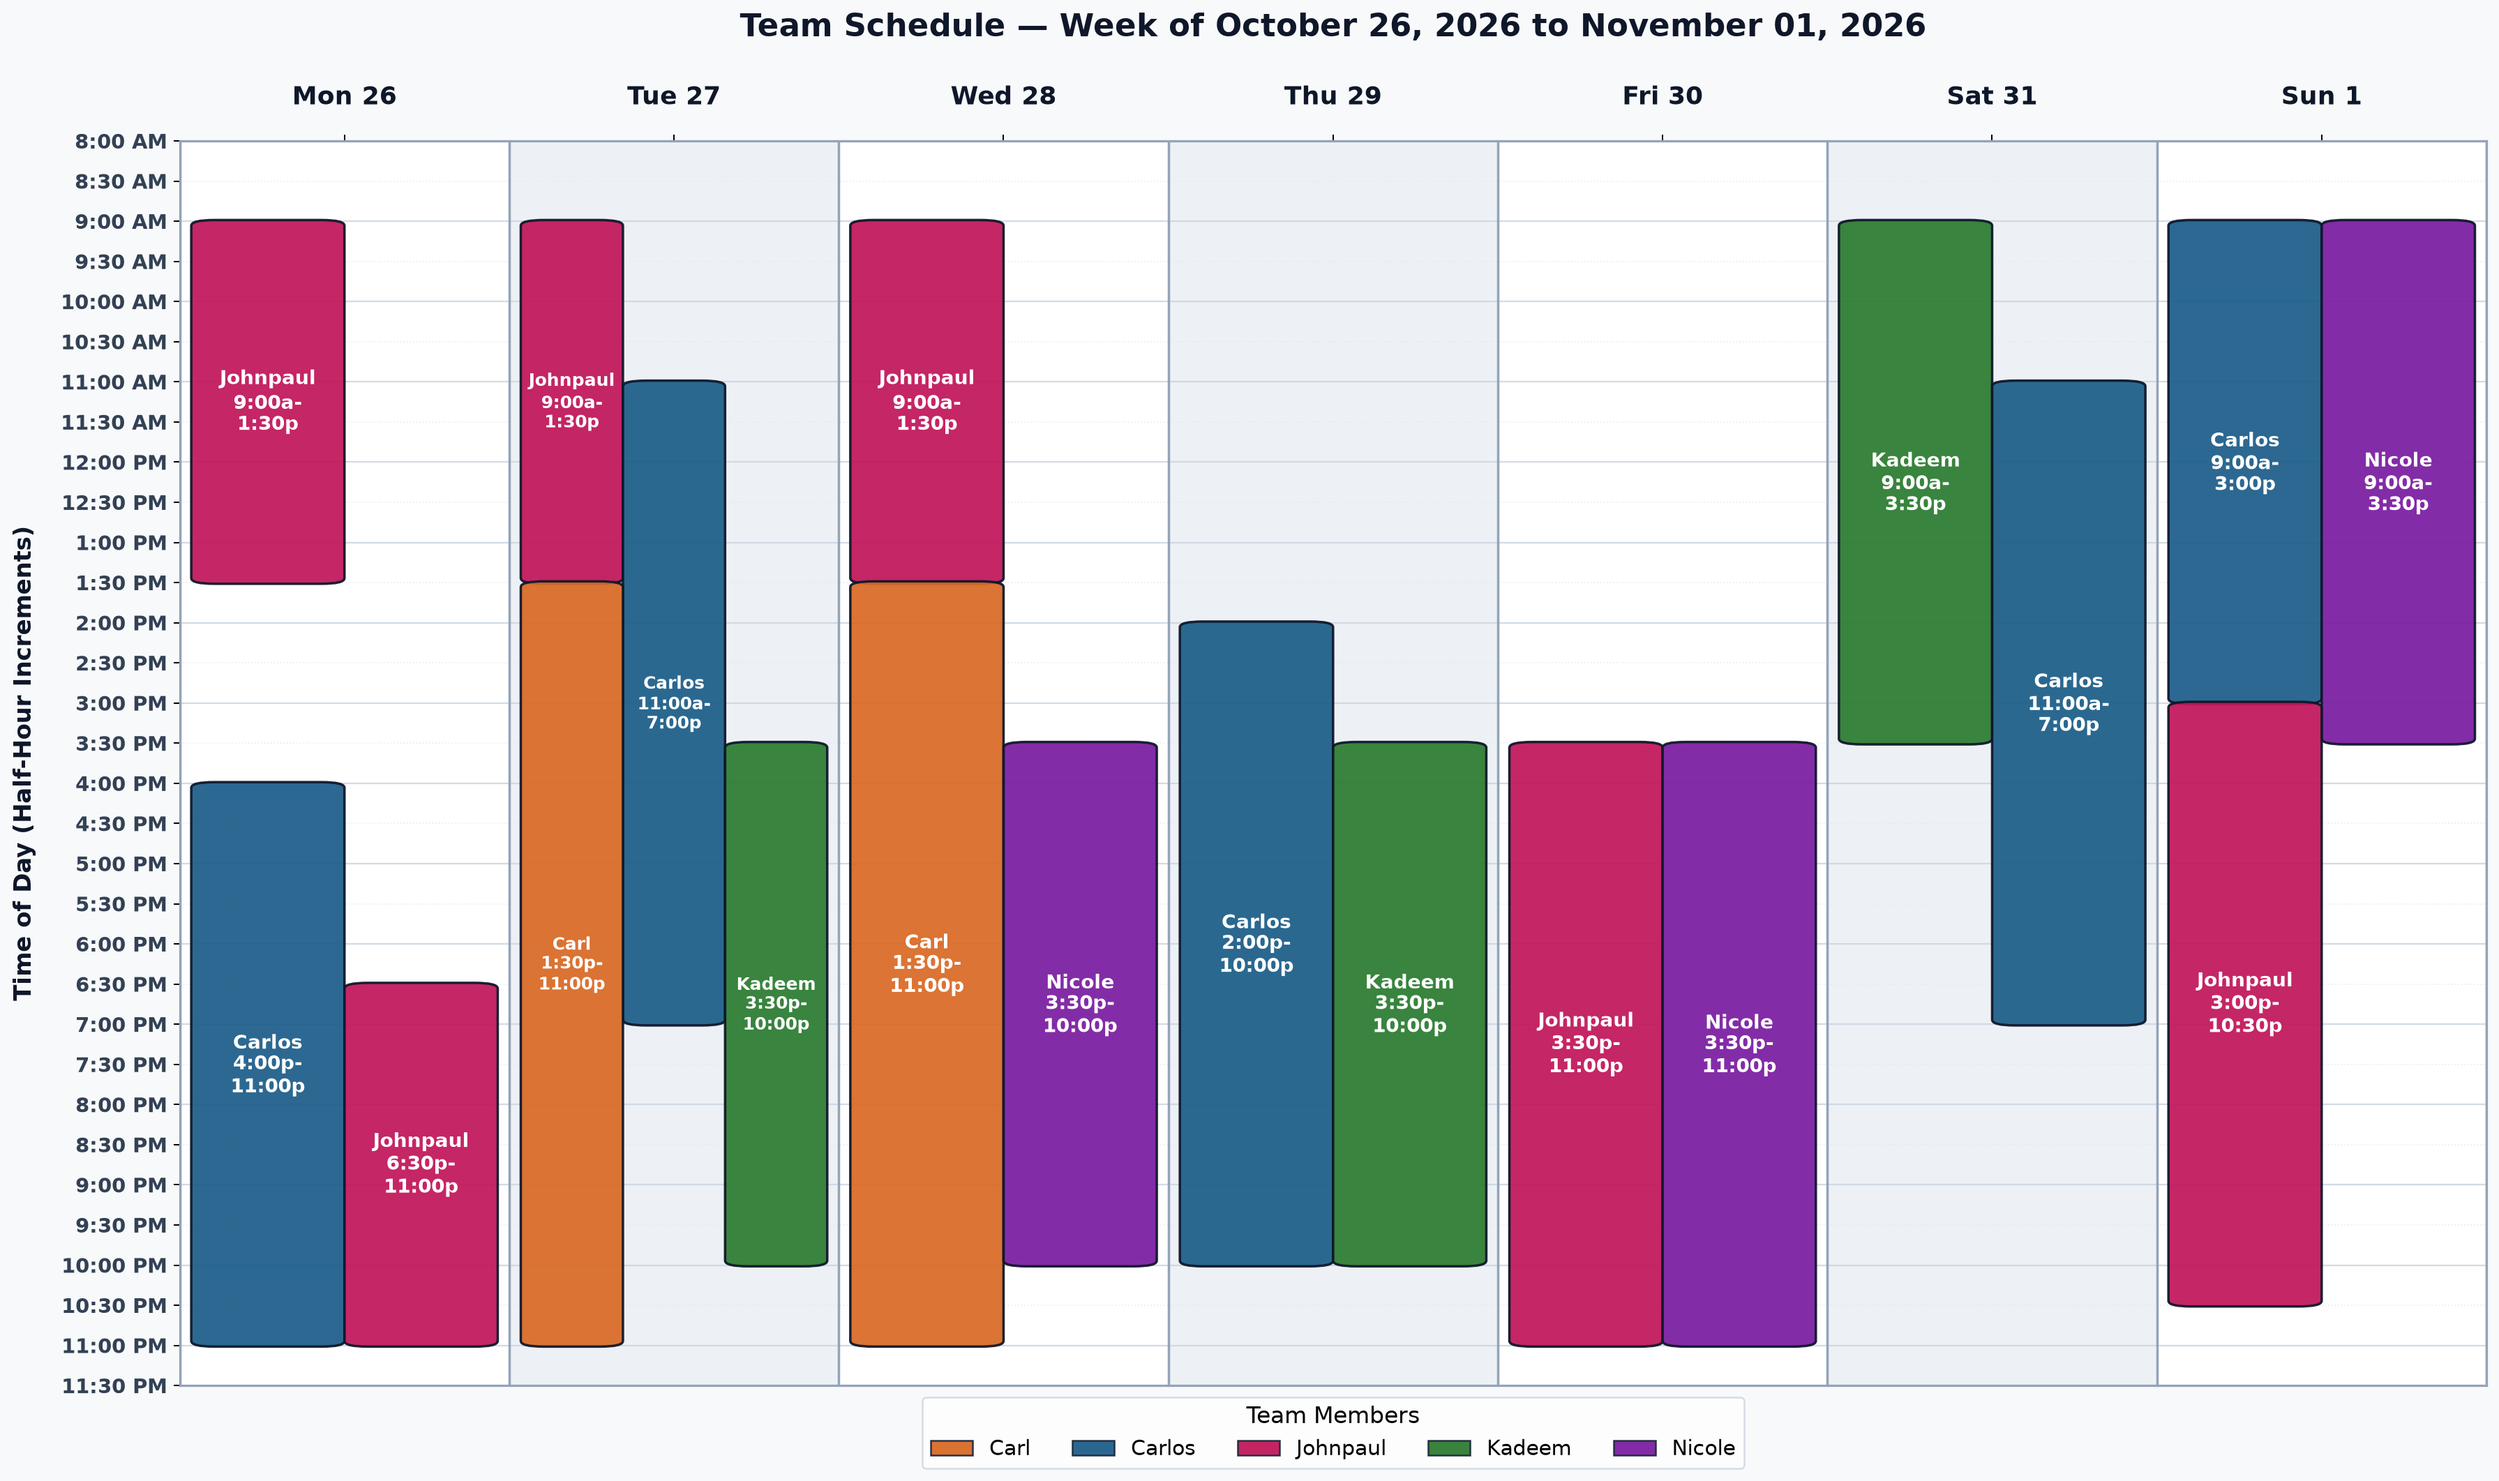
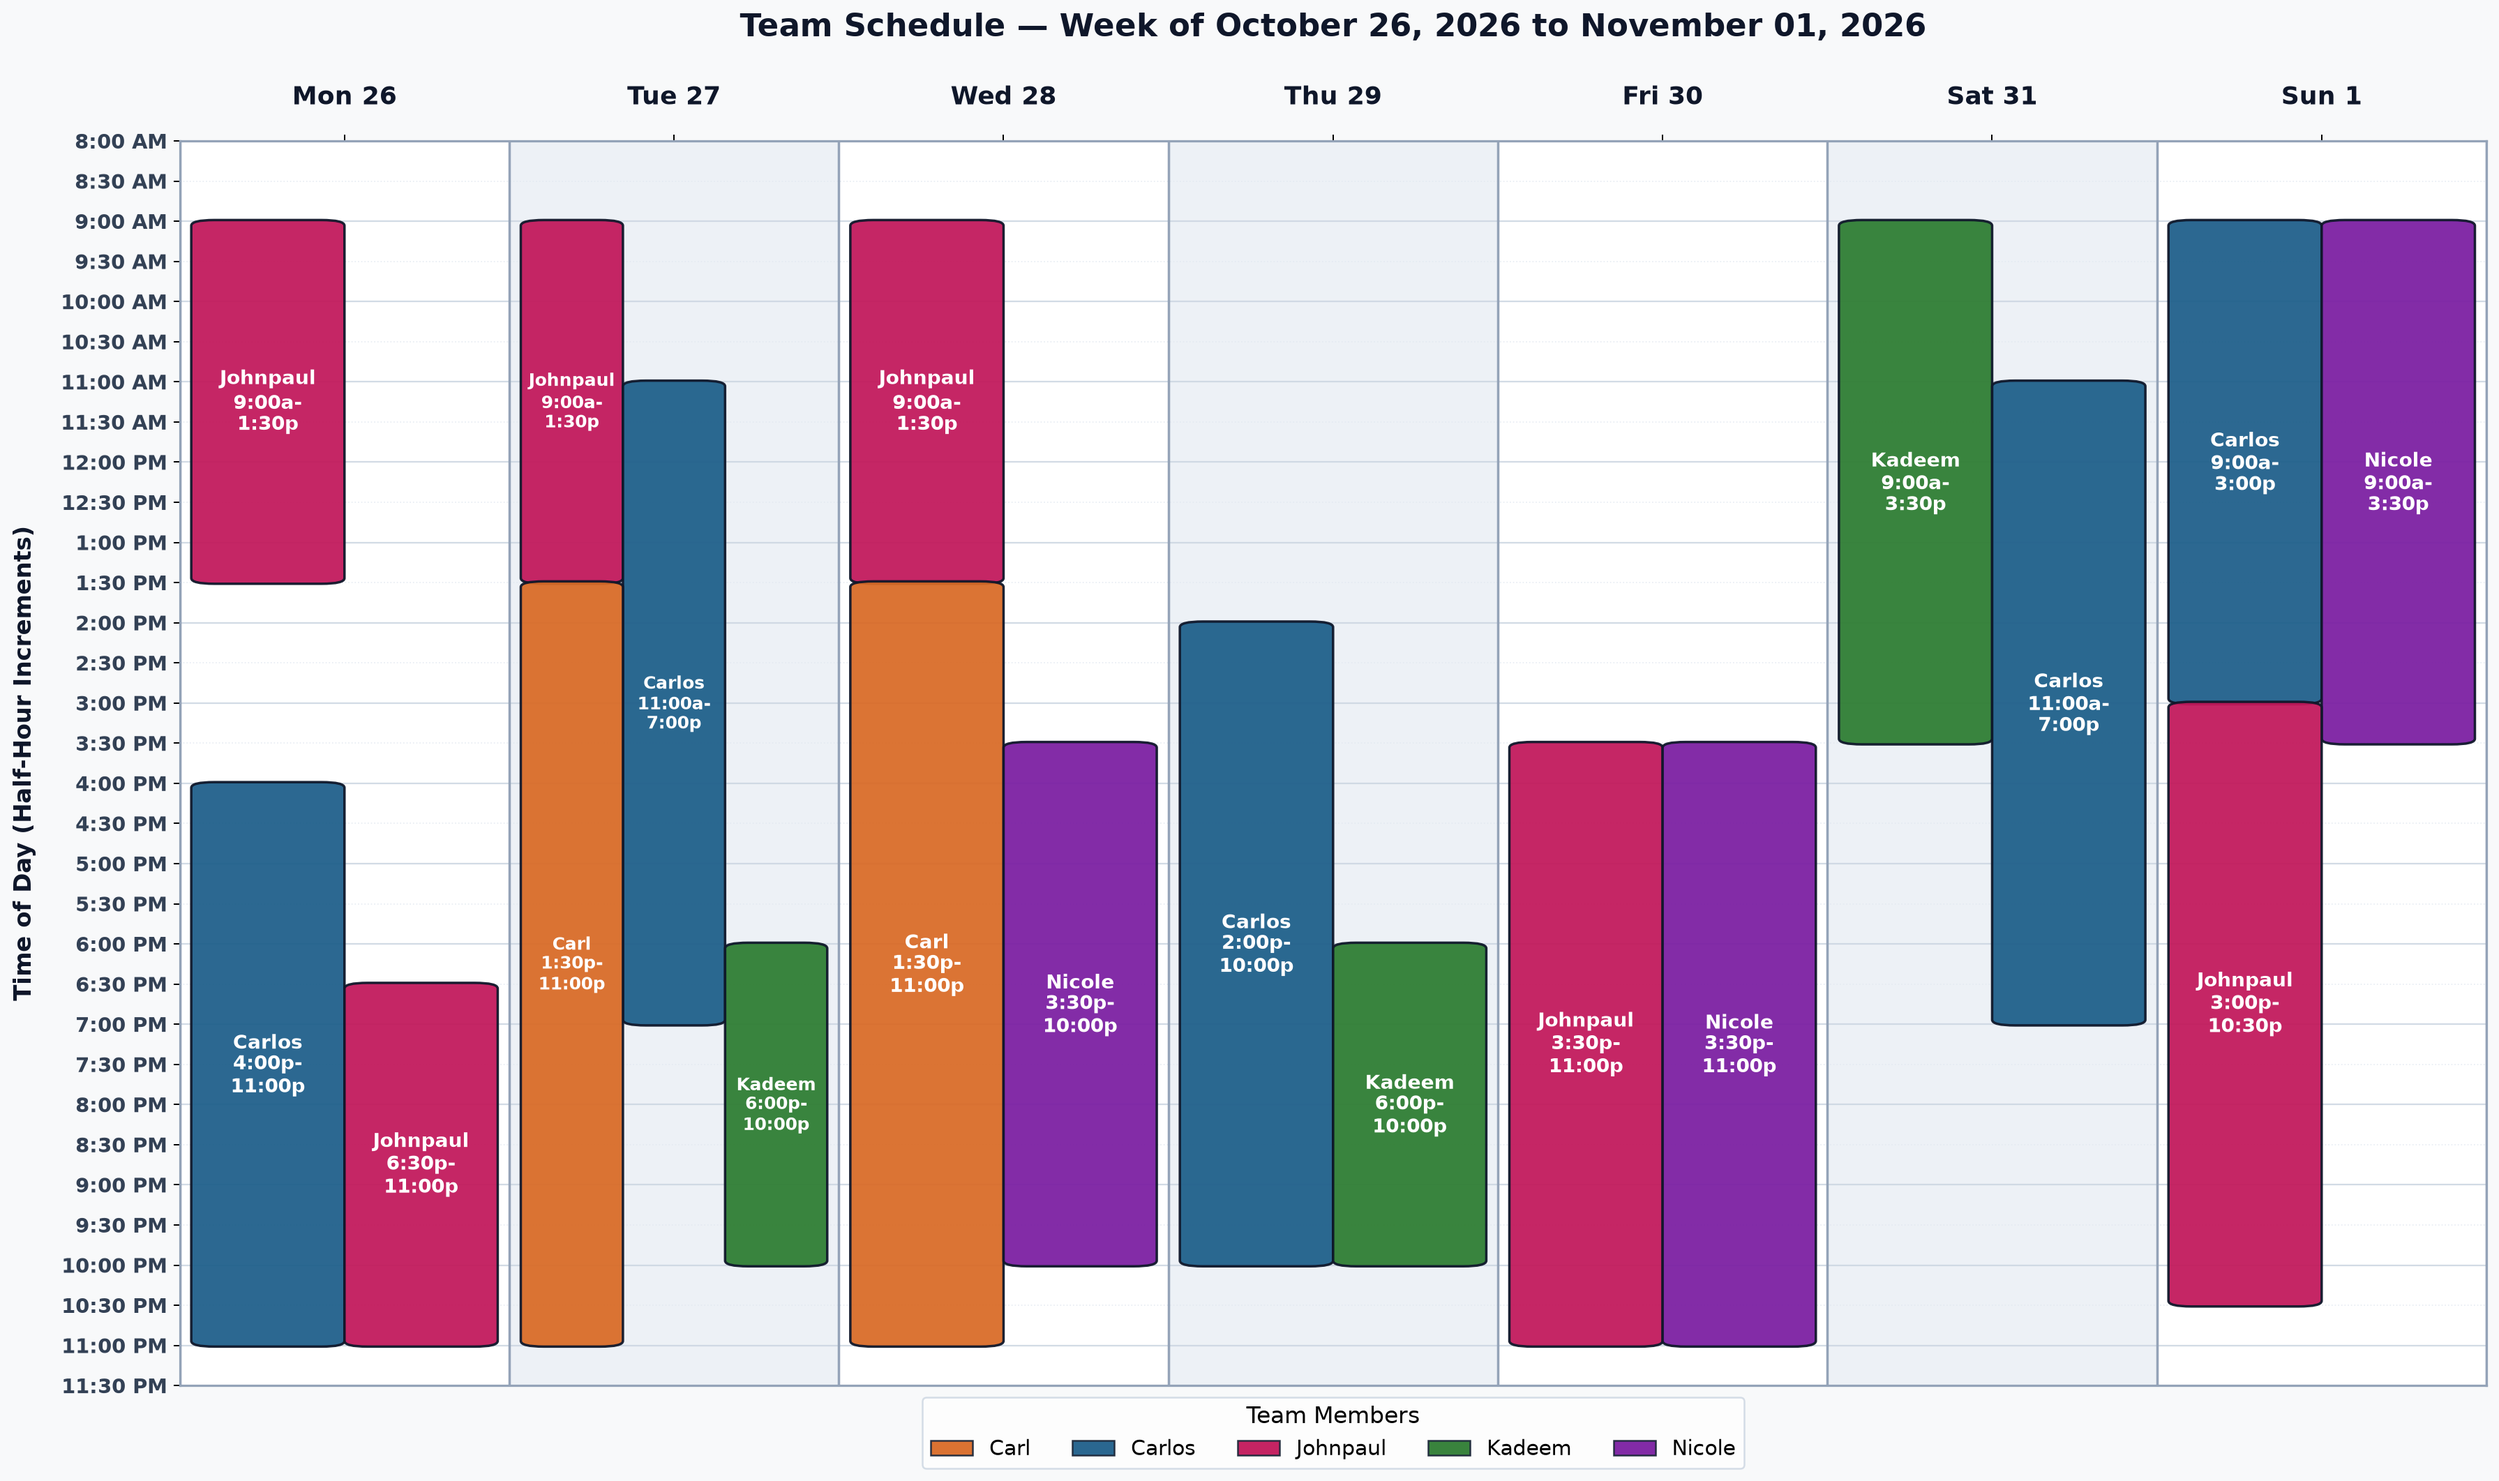
Update Kadeem start time to 6:00 PM on Tue and Thu for both weeks

Changed region(s): [[0.5268, 0.4974, 0.6198, 0.7772], [0.2789, 0.4974, 0.3409, 0.6839], [0.2789, 0.715, 0.3409, 0.7772]]

diff --git a/schedule.html b/schedule.html
@@ -572,7 +572,7 @@
         "Nicole": "#7B1FA2",
         "Johnpaul": "#C2185B"
       },
-      "total_hours": 129.0,
+      "total_hours": 124.0,
       "total_shifts": 19,
       "stats": {
         "Carlos": {
@@ -591,7 +591,7 @@
           "color": "#D96B27"
         },
         "Kadeem": {
-          "hours": 19.5,
+          "hours": 14.5,
           "shifts": 3,
           "color": "#2E7D32"
         },
@@ -640,9 +640,9 @@
         {
           "name": "Kadeem",
           "day": 1,
-          "start": 15.5,
+          "start": 18.0,
           "end": 22.0,
-          "label": "3:30 PM - 10:00 PM"
+          "label": "6:00 PM - 10:00 PM"
         },
         {
           "name": "Johnpaul",
@@ -682,9 +682,9 @@
         {
           "name": "Kadeem",
           "day": 3,
-          "start": 15.5,
+          "start": 18.0,
           "end": 22.0,
-          "label": "3:30 PM - 10:00 PM"
+          "label": "6:00 PM - 10:00 PM"
         },
         {
           "name": "Nicole",
@@ -770,7 +770,7 @@
         "Jordan": "#D97706",
         "Chris": "#059669"
       },
-      "total_hours": 129.0,
+      "total_hours": 124.0,
       "total_shifts": 19,
       "stats": {
         "Carlos": {
@@ -784,7 +784,7 @@
           "color": "#D96B27"
         },
         "Kadeem": {
-          "hours": 19.5,
+          "hours": 14.5,
           "shifts": 3,
           "color": "#2E7D32"
         },
@@ -852,16 +852,16 @@
         {
           "name": "Kadeem",
           "day": 1,
-          "start": 15.5,
+          "start": 18.0,
           "end": 22.0,
-          "label": "3:30 PM - 10:00 PM"
+          "label": "6:00 PM - 10:00 PM"
         },
         {
           "name": "Kadeem",
           "day": 3,
-          "start": 15.5,
+          "start": 18.0,
           "end": 22.0,
-          "label": "3:30 PM - 10:00 PM"
+          "label": "6:00 PM - 10:00 PM"
         },
         {
           "name": "Kadeem",
